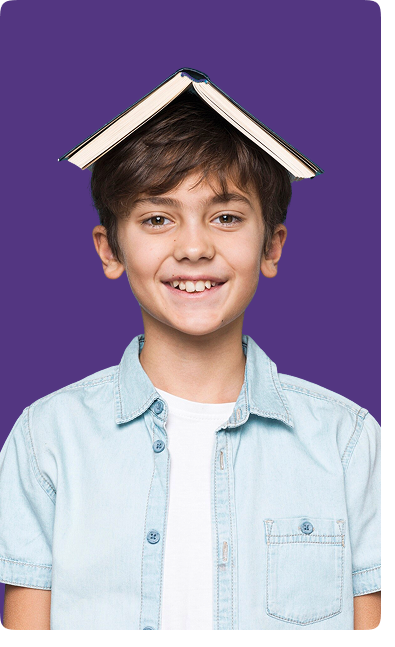
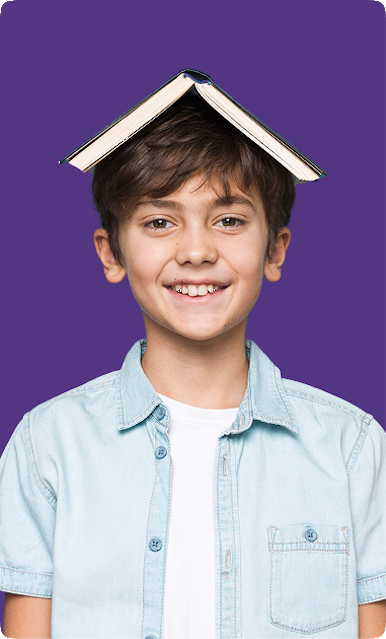
hero section

Changed region(s): [[0.0, 0.0, 1.0, 1.0], [0.8394, 0.6541, 0.8705, 0.6839]]

diff --git a/src/components/about/AboutHeroSection.tsx b/src/components/about/AboutHeroSection.tsx
@@ -1,24 +1,21 @@
 import Image from 'next/image';
-// import { aboutUsBg, aboutUsPic, eklavyaButterfly } from '@/assets';
-import aboutUsBg from '../../assets/about/about-us-bg.svg';
-import aboutUsPic from '../../assets/about/about-us-pic.png';
-import eklavyaButterfly from '../../assets/about/eklavya-butterfly.png';
+ import { aboutUsBg, aboutUsPic } from '@/assets';
 
 export default function AboutHeroSection() {
   return (
-    <section className="relative bg-white overflow-hidden py-20" style={{ minHeight: '700px' }}>
+    <section className="relative bg-white overflow-hidden py-20">
       {/* Background SVG */}
-      <div className="absolute inset-0 z-0">
+      <div className="absolute inset-0 z-0 -mt-5">
         <Image
           src={aboutUsBg}
           alt="About Us Background"
           fill
-          className="object-cover object-center w-full h-full"
+          className="object-contain object-center w-full h-full"
           priority
         />
       </div>
       {/* Content */}
-      <div className="relative z-10 flex flex-col md:flex-row items-center justify-between max-w-7xl mx-auto px-6 py-12 gap-12">
+      <div className="relative z-10 flex flex-col md:flex-row items-center justify-between max-w-[1440px] mx-auto px-6 py-12 gap-12">
         {/* Text */}
         <div className="flex-1 text-center md:text-left">
           <h1 className="text-4xl md:text-6xl font-bold text-[#2D1A47] mb-6">Learning that Sparks <span className="text-[#895BAE]">Curiosity</span>,<br/>Builds <span className="bg-[#C6F7D0] text-[#2D8A4B] px-2 rounded">Confidence</span>,<br/>and Feels Like Play.</h1>
@@ -27,22 +24,59 @@ export default function AboutHeroSection() {
           </p>
         </div>
         {/* Main Image */}
-        <div className="flex-1 flex items-center justify-center relative">
-          <Image
-            src={aboutUsPic}
-            alt="About Us Main"
-            width={400}
-            height={500}
-            className="rounded-3xl shadow-2xl border-4 border-white object-cover"
-            priority
+        <div className="relative w-full md:w-[45%] max-w-[500px]" style={{ marginRight: 'px' }}>
+          {/* Decorative Rectangle */}
+          <div 
+            className="absolute border-4 border-[#F8F8F8] rounded-xl"
+            style={{
+              width: '391px',
+              height: '633.489px',
+              transform: 'rotate(-4.219deg)',
+              flexShrink: 0,
+              bottom: '0',
+              left: '0',
+              transformOrigin: 'bottom left',
+              zIndex: 15
+            }}
           />
-          {/* Butterfly Decoration */}
-          <div className="absolute -top-8 -right-8 w-24 h-24 md:w-32 md:h-32">
+          {/* Shadow Rectangle */}
+          <div 
+            className="absolute"
+            style={{
+              width: '381px',
+              height: '630px',
+              flexShrink: 0,
+              borderRadius: '12px',
+              backgroundColor: '#9984B3',
+              position: 'absolute',
+              top: '20px',
+              left: '20px',
+              zIndex: 5
+            }}
+          />
+          <div 
+            className="relative z-10"
+            style={{
+              width: '381px',
+              height: '630px',
+              flexShrink: 0,
+              borderRadius: '12px',
+              backgroundColor: '#533681',
+              position: 'relative',
+              overflow: 'hidden'
+            }}
+          >
             <Image
-              src={eklavyaButterfly}
-              alt="Butterfly"
-              fill
-              className="object-contain opacity-80"
+              src={aboutUsPic}
+              alt="About Us Main"
+              width={381}
+              height={630}
+              style={{
+                objectFit: 'contain',
+                width: '100%',
+                height: '100%'
+              }}
+              priority
             />
           </div>
         </div>

diff --git a/src/assets/index.ts b/src/assets/index.ts
@@ -60,4 +60,5 @@ export { default as shapesGameCard } from './home/shapes-game-card.png';
 export { default as someGameCard } from './home/some-game-card.png';
 export { default as blueStar } from './home/blue-star.svg';
 export { default as blueBlobImage } from './decoration/blue-blob.svg';
-
+export { default as aboutUsBg } from './about/about-us-bg.svg';
+export { default as aboutUsPic } from './about/about-us-pic.png';
